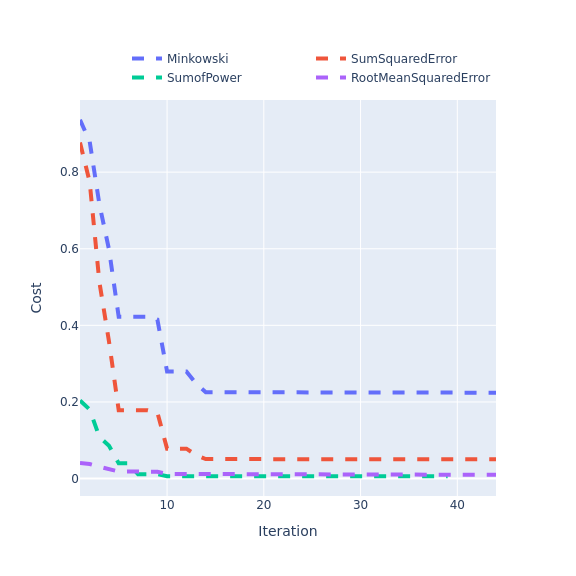
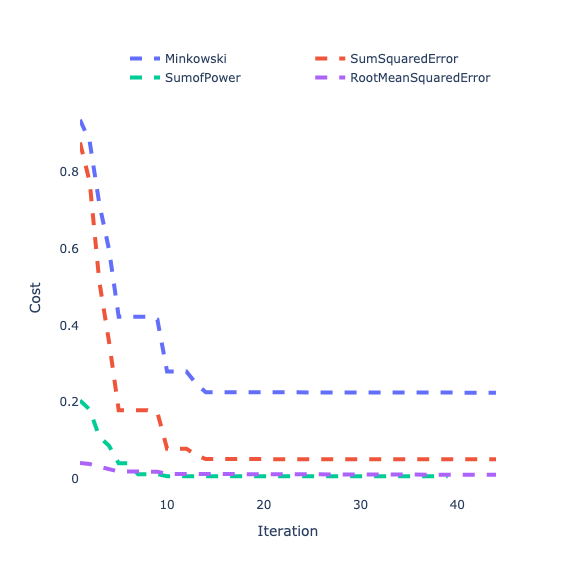
Update figures and text.

diff --git a/joss/param_plots.py b/joss/param_plots.py
@@ -152,10 +152,10 @@ minimising_cost_classes = [
     pybop.RootMeanSquaredError,  # smallest
 ]
 maximising_cost_classes = [
-    pybop.GaussianLogLikelihoodKnownSigma,
     pybop.GaussianLogLikelihood,
-    pybop.MAP,
-    pybop.MAP,
+    pybop.GaussianLogLikelihoodKnownSigma,
+    pybop.LogPosterior,
+    pybop.LogPosterior,
 ]
 
 
@@ -202,6 +202,7 @@ if create_plot["minimising"]:
             legend=dict(
                 orientation="h", yanchor="bottom", y=1.02, xanchor="right", x=1
             ),
+            plot_bgcolor="white",
             width=576,
             height=576,
         ),
@@ -214,30 +215,30 @@ if create_plot["maximising"]:
     ## Do the same for the maximising cost functions
     convergence_traces = []
     first_MAP = True
-    sigma0 = pybop.Parameter(
-        "Sigma",
-        initial_value=0.012,
-        prior=pybop.Gaussian(0.012, 0.005),
-        bounds=[0, 0.05],
-    )
+    # sigma0 = pybop.Parameter(
+    #     "Sigma",
+    #     initial_value=0.012,
+    #     prior=pybop.Gaussian(0.012, 0.005),
+    #     bounds=[0, 0.05],
+    # )
+    # sigma0 = 0.02
     for cost in maximising_cost_classes:
-        # Define keyword arguments for the cost class
-        kwargs = {}
         if cost is pybop.GaussianLogLikelihoodKnownSigma:
-            kwargs["sigma0"] = sigma
+            cost = cost(problem, sigma0=sigma)
         elif cost is pybop.GaussianLogLikelihood:
-            kwargs["sigma0"] = sigma0
-        elif cost is pybop.MAP and first_MAP:
-            kwargs["likelihood"] = pybop.GaussianLogLikelihoodKnownSigma
-            kwargs["sigma0"] = sigma
+            cost = cost(problem, sigma0=4 * sigma)
+        elif cost is pybop.LogPosterior and first_MAP:
+            cost = cost(
+                log_likelihood=pybop.GaussianLogLikelihoodKnownSigma(
+                    problem, sigma0=sigma
+                )
+            )
             first_MAP = False
-        elif cost is pybop.MAP:
-            kwargs["likelihood"] = pybop.GaussianLogLikelihood
-            kwargs["sigma0"] = sigma0
+        elif cost is pybop.LogPosterior:
+            cost = cost(log_likelihood=pybop.GaussianLogLikelihood(problem))
 
-        # Define the cost and optimiser
-        cost = cost(problem, **kwargs)
-        optim = pybop.SciPyMinimize(
+        # Define the optimiser
+        optim = pybop.CMAES(
             cost,
             verbose=True,
             max_iterations=500,
@@ -257,7 +258,11 @@ if create_plot["maximising"]:
             y=cost_log,
             trace_names=type(cost).__name__
             + " "
-            + (type(cost.likelihood).__name__ if isinstance(cost, pybop.MAP) else ""),
+            + (
+                type(cost.likelihood).__name__
+                if isinstance(cost, pybop.LogPosterior)
+                else ""
+            ),
             trace_options={"line": {"width": 4, "dash": "dash"}},
         )
         convergence_traces.extend(convergence_plot_dict.traces)
@@ -271,6 +276,7 @@ if create_plot["maximising"]:
             legend=dict(
                 orientation="h", yanchor="bottom", y=1.02, xanchor="right", x=1
             ),
+            plot_bgcolor="white",
             width=576,
             height=576,
         ),
@@ -339,7 +345,7 @@ if create_plot["gradient"]:
         parameter_traces.extend(parameter_fig.data)
 
     # Plot the parameter traces together
-    parameter_fig.update_layout(width=576, height=1024)
+    parameter_fig.update_layout(width=576, height=1024, plot_bgcolor="white")
     parameter_fig.data = []
     parameter_fig.add_traces(parameter_traces)
     parameter_fig = plotly.subplots.make_subplots(figure=parameter_fig, rows=2, cols=1)
@@ -381,7 +387,7 @@ if create_plot["evolution"]:
         parameter_traces.extend(parameter_fig.data)
 
     # Plot the parameter traces together
-    parameter_fig.update_layout(width=576, height=1024)
+    parameter_fig.update_layout(width=576, height=1024, plot_bgcolor="white")
     parameter_fig.data = []
     parameter_fig.add_traces(parameter_traces)
     parameter_fig = plotly.subplots.make_subplots(figure=parameter_fig, rows=2, cols=1)
@@ -426,7 +432,7 @@ if create_plot["heuristic"]:
         # pybop.plot2d(optim, steps=15)
 
     # Plot the parameter traces together
-    parameter_fig.update_layout(width=576, height=1024)
+    parameter_fig.update_layout(width=576, height=1024, plot_bgcolor="white")
     parameter_fig.data = []
     parameter_fig.add_traces(parameter_traces)
     parameter_fig = plotly.subplots.make_subplots(figure=parameter_fig, rows=2, cols=1)

diff --git a/joss/paper.md b/joss/paper.md
@@ -38,29 +38,29 @@ bibliography: paper.bib
 
 # Summary
 
-The Python Battery Optimisation and Parameterisation (`PyBOP`) package provides a set of methods for the parameterisation and optimisation of battery models, offering both Bayesian and frequentist approaches with example workflows to assist the user. `PyBOP` can be used for parameter identification of various models, including the electrochemical and equivalent circuit models provided by the popular open-source package `PyBaMM` [@Sulzer:2021]. Similarly, `PyBOP` can be used for design optimisation under user-defined operating conditions for a given parameter. `PyBOP` allows the user to parameterise battery models using a variety of methods and provides diagnostics on the performance and convergence of the optimisation. The identified parameters can be used for prediction, on-line control and design optimisation, all of which support improved battery utilisation and development.
+The Python Battery Optimisation and Parameterisation (`PyBOP`) package provides a set of methods for the parameterisation and optimisation of battery models, offering both Bayesian and frequentist approaches with example workflows to assist the user. `PyBOP` can be used for parameter identification of various models, including the electrochemical and equivalent circuit models provided by the popular open-source package `PyBaMM` [@Sulzer:2021]. Similarly, `PyBOP` can be used for parameter design optimisation under user-defined operating conditions across a variety of model structures. `PyBOP` enables battery model parameterisation across a range of methods with diagnostics on the performance and convergence of the identified or optimised parameters. The identified parameters can be used for prediction, on-line control and design optimisation, all of which support improved battery utilisation and development.
 
 # Statement of need
 
-`PyBOP` is a Python package that is designed to provide a user-friendly, object-oriented interface for the optimisation of battery models which have been implemented in existing battery modelling software, e.g. `PyBaMM` [@Sulzer:2021]. `PyBOP` is intended to serve a broad audience of students, engineers, and researchers in both academia and the battery industry. `PyBOP` prioritises clear and informative diagnostics and workflows for both new and experienced users, while also leveraging advanced optimisation algorithms provided by `SciPy` [@SciPy:2020], `PINTS` [@Clerx:2019], and internal implementations such as the adaptive moment estimation with weight decay (AdamW), as well as Cuckoo search.
+`PyBOP` is a Python package designed to provide a user-friendly, object-oriented interface for the optimisation of battery models. `PyBOP` leverages the open-source `PyBaMM` [@Sulzer:2021] package for formulation and solving of these battery models. `PyBOP` is intended to serve a broad audience of students, engineers, and researchers in both academia and the battery industry, by enabling usage of predictive battery models where not previously possible. `PyBOP` prioritises clear and informative diagnostics and workflows for both new and experienced users, while leveraging advanced optimisation algorithms provided by `SciPy` [@SciPy:2020], `PINTS` [@Clerx:2019], and its own internal implementations such as the adaptive moment estimation with weight decay (AdamW), and Cuckoo search.
 
-`PyBOP` supports the Battery Parameter eXchange (BPX) standard [@BPX:2023] for sharing battery parameter sets. These parameter sets are costly to obtain due to a number of factors: the equipment and time spent on characterisation experiments, the requirement of battery domain knowledge, and the computational cost of parameter estimation. `PyBOP` reduces the barrier to entry and ongoing costs by providing an accessible workflow that efficiently connects battery models with numerical optimisers, as well as explanatory examples of battery parameterisaton and design optimisation.
+`PyBOP` supports the Battery Parameter eXchange (BPX) standard [@BPX:2023] for sharing battery parameter sets. As these parameter sets are costly to obtain due to a number of factors: the equipment and time spent on characterisation experiments, the requirement of battery domain knowledge, and the computational cost of parameter estimation. `PyBOP` reduces the barrier to entry and ongoing costs by providing an accessible workflow that efficiently connects battery models with numerical optimisers, as well as explanatory examples of battery parameterisaton and design optimisation.
 
 This package complements other tools in the field of lithium-ion battery modelling built around `PyBaMM`, such as `liionpack` for simulating battery packs [@Tranter2022] as the identified parameters are easily exportable from `PyBOP` into packages aimed at predictive forward modelling.
 
 # Architecture
 
-`PyBOP` is packaged through PyPI and currently supports Python versions 3.9 — 3.12. As shown in \autoref{fig:high-level}, `PyBOP` composes the popular battery modelling package `PyBaMM` for forward modelling and provides classes for parameterisation and optimisation. This approach enables a robust object construction process with consistent interfacing between the models and optimisers. `PyBOP` provides statistical methods and optimisation algorithms to interface cleanly with the forward model predictions. Furthermore, identifiability metrics are provided for the estimated parameters through Hessian approximation of the cost/likelihood functions in the frequentist workflows and posterior moments in the Bayesian workflows.
+`PyBOP` is deployed through PyPI under the `pybop` package name, with currently supported Python versions of 3.9 — 3.12. As shown in \autoref{fig:high-level}, `PyBOP` composes the popular battery modelling package `PyBaMM` for forward modelling and provides classes for parameterisation and optimisation. This approach enables a robust object construction process with consistent interfacing between the models and optimisers. `PyBOP` provides statistical methods and optimisation algorithms to interface cleanly with the forward model predictions. Furthermore, identifiability metrics are provided for the estimated parameters through Hessian approximation of the cost and likelihood functions in the frequentist workflows and posterior moments in the Bayesian workflows.
 
 ![PyBOP's interface to supporting funding agencies, alongside a visualisation of the general workflow for parameterisation and optimisation \label{fig:high-level}](../assets/PyBOP-high-level.pdf){width=80%}
 
-`PyBOP` formulates the optimisation workflow through four main classes, namely the model, problem (or observer), cost (or likelihood), and optimiser (or sampler), as shown in \autoref{fig:classes}. Each of these objects represent a base class with children classes constructing differing functionality for specialised parameterisation or optimisation workflows. For example, the model class offers children classes for differing physics-based battery models, as well as empirical models. This allows for the underlying `PyBaMM` model to be constructed and validated for the different requirements between the physics-based and empirical models. For a given set of model equations provided from `PyBaMM`, initial conditions, spatial discretisation, and numerical solver initialisation is completed. By composing `PyBaMM` models directly into `PyBOP`, the underlying model structure can be modified, and optimally constructed for the optimisation tasks. One such example of this, is the spatial rediscretisation that is performed when geometric parameters are optimised. In this situation, `PyBOP` aims to minimally reconstruct the `PyBaMM` model while maintaining the problem, cost, and optimiser objects, providing improved performance benefits to users. In the typical optimisation workflow, the classes in \autoref{fig:classes} are constructed in sequence.
+`PyBOP` formulates the optimisation workflow through four main classes, namely the model, problem (or observer), cost (or likelihood), and optimiser (or sampler), as shown in \autoref{fig:classes}. Each of these objects represent a base class with children classes constructing specialised functionality for parameterisation or optimisation workflows. For example, the model class offers children classes for differing physics-based battery models, as well as empirical models. This allows for the underlying `PyBaMM` model to be constructed and validated for the different requirements between the physics-based and empirical models. For a given set of model equations provided from `PyBaMM`, the initial conditions, spatial discretisation, and numerical solver are constructed. By composing `PyBaMM` models directly into `PyBOP`, the underlying model structure can be modified, and optimally constructed for the optimisation tasks. One such example of this, is the spatial rediscretisation that is performed when geometric parameters are optimised. In this situation, `PyBOP` aims to minimally reconstruct the `PyBaMM` model while maintaining the problem, cost, and optimiser objects, providing improved performance benefits to users. In the typical optimisation workflow, the classes in \autoref{fig:classes} are constructed in sequence. Likewise, `PyBOP` offers parameter inference from electrochemical impedance spectroscopy datasets by discretising the forward model into mass matrix form, converting to the frequency domain, and performing a sparse linear solve as initially presented in [@pybamm-eis:2024]. In this situation, the forward models are constructed within the spatial rediscretisation workflow, allowing for geometric parameter inference from EIS forward model predictions.
 
 ![The core `PyBOP` architecture, showcasing the base class interfaces. Each class provide direct mapping to a classical step in the optimisation workflow. \label{fig:classes}](figures/PyBOP_components.drawio.png){ width=80% }
 
-The currently implemented subclasses for the model, problem, and cost classes are listed in \autoref{tab:subclasses}. From this point onwards, the parameterisation and design optimisation tasks will simply be referred to as optimisation tasks. This simplification can be justified by inspecting \autoref{eqn:parameterisation} and \autoref{eqn:design} and confirming that parameterisation can be viewed as an optimisation task to minimise a distance-based cost function.
+The currently implemented subclasses for the model, problem, and cost classes are listed in \autoref{tab:subclasses}. The cost functions in \autoref{tab:subclasses} are grouped by problem type, while the model and optimiser classes can be selected in combination with any problem-cost pair.
 
-: List of available model, problem and cost classes. \label{tab:subclasses}
+:List of available model, problem and cost (or likelihood) classes. \label{tab:subclasses}
 
 | Battery Models                      | Problem Types   | Cost / Likelihood Functions    |
 | :---------------------------------- | :-------------- | :----------------------------- |
@@ -75,9 +75,9 @@ The currently implemented subclasses for the model, problem, and cost classes ar
 |                                     |                 | Volumetric energy density      |
 
 
-Likewise, the current optimisation algorithms available for usage in optimisation tasks are presented in \autoref{tab:optimisers}. The cost functions in \autoref{tab:subclasses} are grouped by problem type, while the model and optimiser classes can be selected in combination with any problem-cost pair.
+Likewise, the current optimisation algorithms available for usage in optimisation tasks are presented in \autoref{tab:optimisers}. From this point onwards, the parameterisation and design optimisation tasks will simply be referred to as optimisation tasks. This simplification can be justified by inspecting \autoref{eqn:parameterisation} and \autoref{eqn:design} and confirming that parameterisation can be viewed as an optimisation task to minimise a distance-based cost function.
 
-: The currently supported optimisation algorithms classified by candidate solution type, inclusive of gradient information. (*) Scipy Minimize has gradient and non-gradient methods. \label{tab:optimisers}
+: The currently supported optimisation algorithms classified by candidate solution type, inclusive of gradient information. (*) Scipy minimize has gradient and non-gradient methods. \label{tab:optimisers}
 
 | Gradient-based                                       | Evolutionary Strategies               | (Meta)heuristic      |
 | :--------------------------------------------------- | :------------------------------------ | :------------------- |
@@ -87,7 +87,7 @@ Likewise, the current optimisation algorithms available for usage in optimisatio
 | SciPy minimize (*)                                   | SciPy differential evolution          |                      |
 |                                                      | Cuckoo search                         |                      |
 
- As discussed above, `PyBOP` offers Bayesian inference methods such as Maximum a Posteriori (MAP) presented alongside the frequentist methods in \autoref{tab:subclasses}; however, for a full Bayesian framework, Monte Carlo sampling is implemented within `PyBOP`. These methods construct a posterior distribution of the unknown parameters which can used for uncertainty and practical identifiability diagnostics. The individual sampler classes are currently composed within `PyBOP` from the `PINTS` library, with a base sampling class implemented for interoperability and direct integration to the `PyBOP` model, problem, and likelihood classes. The currently supported samplers are presented in \autoref{tab:samplers}.
+ As discussed above, `PyBOP` offers Bayesian inference methods such as Maximum a Posteriori (MAP) presented alongside the frequentist methods in \autoref{tab:subclasses}; however, for a full Bayesian framework, Monte Carlo sampling is implemented within `PyBOP`. These methods construct a posterior distribution on the inference parameters which can used for uncertainty and practical identifiability diagnostics. The individual sampler classes are currently composed within `PyBOP` from the `PINTS` library, with a base sampling class implemented for interoperability and direct integration to the `PyBOP` model, problem, and likelihood classes. The currently supported samplers are presented in \autoref{tab:samplers}.
 
 : PyBOP's Monte Carlo sampling methods separated based on candidate suggestion method. \label{tab:samplers}
 
@@ -119,15 +119,15 @@ with initial conditions
 
 Here, $t$ is time, $\mathbf{x}(t)$ are the (spatially discretised) states, $\mathbf{y}(t)$ are the outputs (for example the terminal voltage), $\mathbf{u}(t)$ are the inputs (e.g. the applied current) and $\mathbf{\theta}$ are the unknown parameters.
 
-Common battery models include various types of equivalent circuit model (e.g. the Thévenin model), the Doyle–Fuller–Newman (DFN) model [@Doyle:1993; @Fuller:1994] based on porous electrode theory and its reduced-order variants including the single particle model (SPM) [@Planella:2022], as well as the multi-species, multi-reaction (MSMR) model [@Verbrugge:2017].
+Common battery models include various types of equivalent circuit models (e.g. the Thévenin model), the Doyle–Fuller–Newman (DFN) model [@Doyle:1993; @Fuller:1994] based on porous electrode theory and its reduced-order variants including the single particle model (SPM) [@Planella:2022], as well as the multi-species, multi-reaction (MSMR) model [@Verbrugge:2017].
 
-Simplified models that retain good prediction capabilities at a lower computational cost are widely used, for example within battery management systems, while physics-based models are required to understand the impact of design parameters on battery performance.
+Simplified models that retain good prediction capabilities at a lower computational cost are widely used, for example within battery management systems, while physics-based models are required to understand the impact of design parameters on battery performance. This separation of complexity conventionally results in multiple parameterisation for a single battery type, dependent on the model structure.
 
 # Examples
 
 ## Parameterisation
 
-Battery model parameterisation is difficult due to the high ratio of the number of parameters to measurable outputs [@Miguel:2021; @Wang:2022; @Andersson:2022]. A complete parameterisation often requires a step-by-step identification of smaller groups of parameters from a variety of different datasets [@Chu:2019; @Chen:2020; @Kirk:2022].
+Battery model parameterisation is challenging due to the high number of parameters needed to identify compared to measurable outputs [@Miguel:2021; @Wang:2022; @Andersson:2022]. A complete parameterisation often requires a step-by-step identification of smaller groups of parameters from a variety of different datasets [@Chu:2019; @Chen:2020; @Kirk:2022] and excitations.
 
 A generic data fitting optimisation problem may be formulated as:
 \begin{equation}
@@ -135,21 +135,19 @@ A generic data fitting optimisation problem may be formulated as:
 \textrm{subject to equations (\ref{dynamics})\textrm{-}(\ref{initial_conditions})}
 \label{eqn:parameterisation}
 \end{equation}
-in which $\mathcal{L} : \mathbf{\theta} \mapsto [0,\infty)$ is a cost (or likelihood) function that quantifies the agreement between the model and a sequence of data points $(\mathbf{y}_i)$ measured at times $t_i$. For gradient-based optimisers, the Jacobian of the cost function with respect to the unknown parameters, $(\frac{\partial L}{\partial \theta})$ is used as a directional metric for the algorithm when exploring the parameter space.
+in which $\mathcal{L} : \mathbf{\theta} \mapsto [0,\infty)$ is a cost (or likelihood) function that quantifies the agreement between the model and a sequence of observations $(\mathbf{y}_i)$ measured at times $t_i$. For gradient-based optimisers, the Jacobian of the cost function with respect to the unknown parameters, $(\frac{\partial L}{\partial \theta})$ is used as additional information (step size and direction) for the algorithm when exploring the search space.
 
-By way of example, we next demonstrate the fitting of some synthetic data for which we know the true parameter values.
-
-In this example problem, we employ `PyBaMM`'s implementation of the single particle model (SPM) with contact resistance. We assume that the battery model is already parameterised except for two dynamic parameters, namely the lithium diffusivity in the active material particles in the negative electrode (the "negative particle diffusivity") and the contact resistance. We generate some synthetic data for a 1C discharge followed by 30 minutes of relaxation, shown by the dots in \autoref{fig:simulation}. The initial states are assumed known, although such an assumption is not necessary in general. The cost landscape to be explored by the optimiser is shown in \autoref{fig:landscape}.
+We next demonstrate the fitting of synthetic data for which we know the true parameter values. In this example problem, we employ `PyBaMM`'s implementation of the single particle model (SPM) with an added contact resistance submodel. We assume that the battery model is already parameterised except for two dynamic parameters, namely the lithium diffusivity in the active material particles in the negative electrode (the "negative particle diffusivity") and the contact resistance. We generate synthetic data of a 1C (the corresponding applied current required to discharge the cell in one hour) discharge for one hour, followed by 30 minutes of relaxation. This data is then corrupted with 2mV gaussian zero mean noise, shown by the dots in \autoref{fig:simulation}. The initial states are assumed known, although such an assumption is not necessary in general. The underlying cost landscape to be explored by the optimiser is shown in \autoref{fig:landscape}.
 
 ![The data and the underlying model. \label{fig:simulation}](figures/simulation.png){ width=40% }
 ![The cost landscape for the parameterisation problem using the root mean square error. \label{fig:landscape}](figures/landscape.png){ width=40% }
 
-In order to estimate the best fit parameter values, we can employ any of the error-based cost functions and any of the optimisers. Due to the vastly different magnitudes of the two parameters, we apply two of the transformations offered by `PyBOP`, namely the log transformation for the negative particle diffusivity and the scaled transformation (with a coefficient of 100) for the contact resistance. As a demonstration of `PyBOP`'s parameterisation capabilities, (\autoref{fig:minimising}) shows the rate of convergence in the cost value for each of the error-minimising cost functions, while (\autoref{fig:maximising}) displays analogous results for maximising a likelihood. Here, the optimisation is perfomed with SciPy minimize using the gradient-based L-BFGS-B method.
+In order to identify the best fit parameter values, we can employ any of the error-based cost functions and any of the optimisers. Due to the vastly different magnitudes of the two parameters, we apply two of the transformations offered by `PyBOP`, namely the log transformation for the negative particle diffusivity and the scaled transformation (with a coefficient of 100) for the contact resistance. This application transforms the optimisers search space, enabling a shared step-size between the parameters; however, in general is not required. As a demonstration of `PyBOP`'s parameterisation capabilities, (\autoref{fig:minimising}) shows the rate of convergence for each of the error-minimising cost functions, while (\autoref{fig:maximising}) displays analogous results for maximising a likelihood. Here, the optimisation is performed with SciPy minimize using the gradient-based L-BFGS-B method.
 
 ![Convergence in the distance-based cost functions obtained using various error measures and SciPy minimize. \label{fig:minimising}](figures/convergence_minimising.png){ width=40% }
 ![Convergence in the likelihood functions obtained using various likelihood functions and SciPy minimize. \label{fig:maximising}](figures/convergence_maximising.png){ width=40% }
 
-We also compare the performance of the different optimisation algorithms divided by category: gradient-based algorithms in \autoref{fig:gradient}, evolution strategies in \autoref{fig:evolution} and (meta)heuristics in \autoref{fig:heuristic}. Note that optimiser performance will depend on the specific cost landscape and prior information.
+Furthermonre, we can also compare the performance of the various optimisation algorithms divided by category: gradient-based algorithms in \autoref{fig:gradient}, evolution strategies in \autoref{fig:evolution} and (meta)heuristics in \autoref{fig:heuristic}. Note that the optimiser performance depends on the specific cost landscape, prior information, and corresponding hyperparameters.
 
 ![Convergence in the parameter values obtained using the sum squared error and various gradient-based optimisers. \label{fig:gradient}](figures/gradient_parameters.png){ width=30% }
 ![Convergence in the parameter values obtained using the sum squared error and various evolution strategies. \label{fig:evolution}](figures/evolution_parameters.png){ width=30% }
@@ -157,7 +155,7 @@ We also compare the performance of the different optimisation algorithms divided
 
 ## Design optimisation
 
-Design optimisation is supported within `PyBOP` to guide future development of the battery design by identifying parameter variations which may unlock improvements in battery performance. This optimisation task can be viewed similarly to the parameterisation workflows described above, however, with the aim of increasing the distance metric instead of minimising it. In the case of design optimisation for maximising gravimetric energy density, `PyBOP` minimises the negative of the cost function, where the cost metric is no longer a distance between two time-series vectors, instead it is the integrated energy from the vector normalised with the corresponding cell mass. This is typically quantified for operational conditions such as a 1C (the applied current required to discharge the cell in one hour) capacity.
+Design optimisation is supported within `PyBOP` to guide future development of battery design by identifying parameter sensitivities which may unlock improvements in battery performance. This problem can be viewed similarly to the parameterisation workflows described above; however, with the aim of maximising a distance metric instead of minimising it. In the case of design optimisation for maximising gravimetric energy density, `PyBOP` minimises the negative of the cost function, where the cost metric is no longer a distance between two time-series vectors, but instead is the integrated energy from the vector normalised with the corresponding cell mass. This is typically quantified for operational conditions such as a 1C capacity.
 
 Design optimisation can be written in the form of a constrained optimisation problem as:
 \begin{equation}
@@ -182,12 +180,13 @@ We gratefully acknowledge all [contributors](https://github.com/pybop-team/PyBOP
 # Discussion Points
 - Performance (multiprocessing)
 - ~~Construction of PyBaMM models (geometric and non-geometric identification)~~
-- Feasability checks on identified parameters
+- Feasibility checks on identified parameters
+- Samplers + EIS methods
 - Spatial identification methods?
 - Documentation supported at https://pybop-docs.readthedocs.io/en/latest/
 - Benchmarks provided at https://pybop-team.github.io/pybop-bench/
 - Plotting classes via Plotly (cost landscapes, gradient landscapes)
-- Test suite provided by pytest (~98% coverage)
+- Test suite provided by pytest (~99% coverage)
 - Standalone implementations (Bring your own model)
 
 # References
